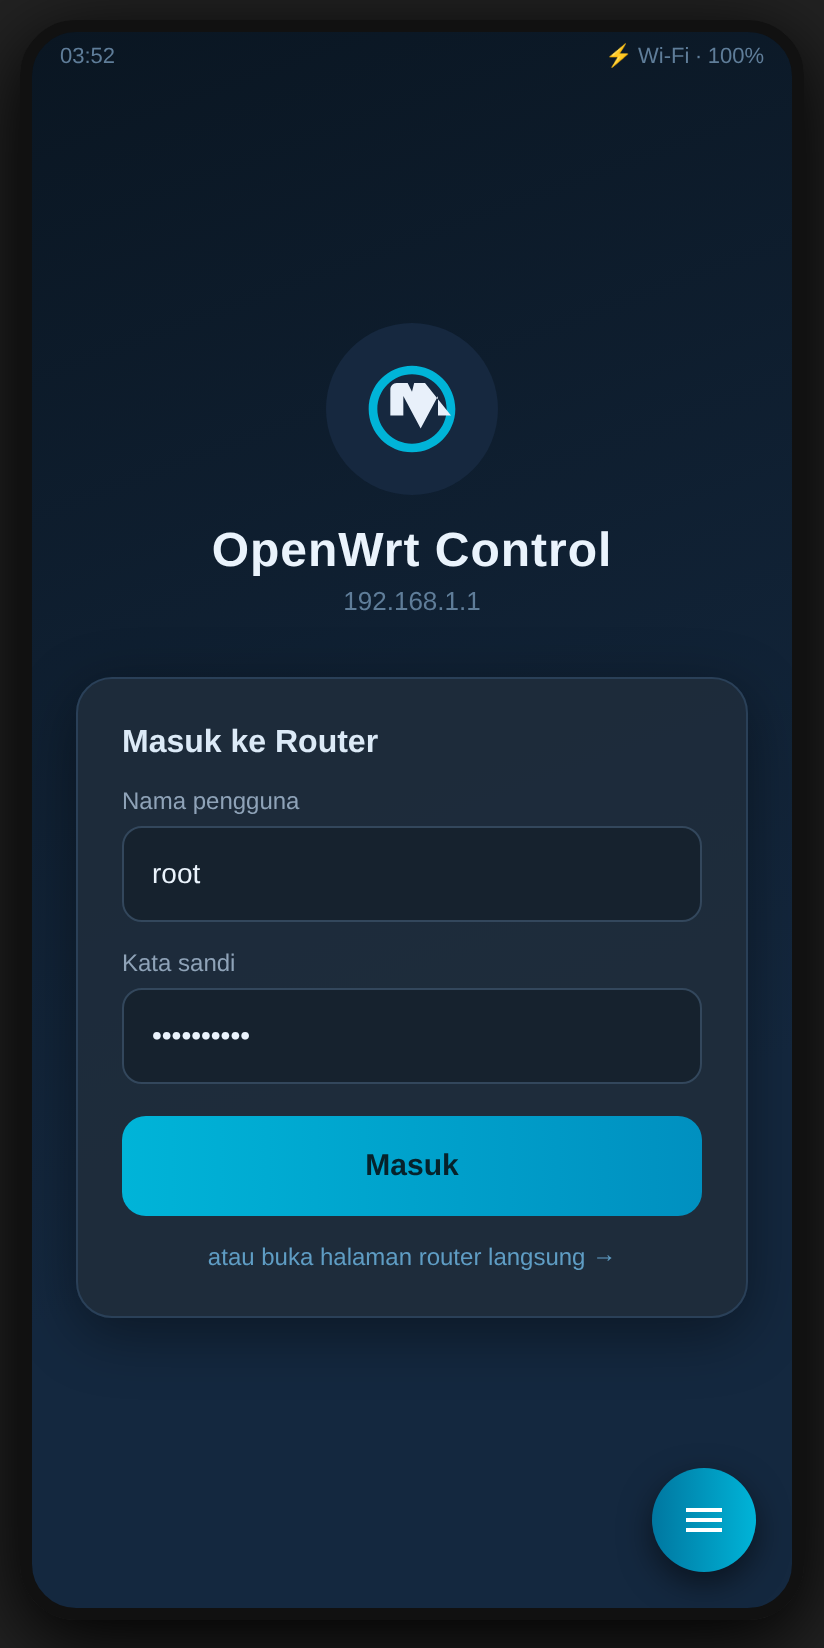
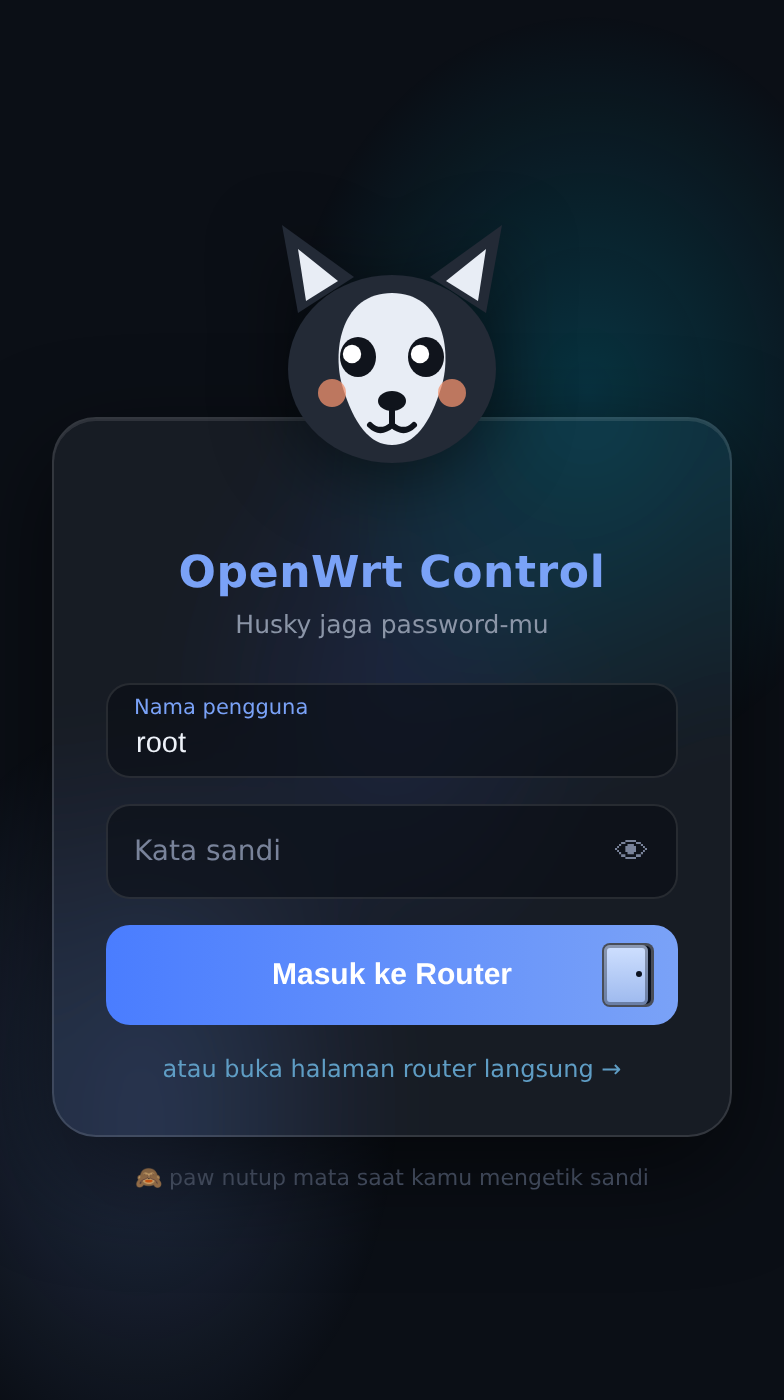
v1.2: layar login Husky Guard animatif (paw tutup mata, pintu di tombol), HTML asset + JS bridge

diff --git a/android/app/src/main/assets/www/login.html b/android/app/src/main/assets/www/login.html
@@ -1,0 +1,130 @@
+<!DOCTYPE html>
+<html><head><meta charset="utf-8"><meta name="viewport" content="width=device-width,initial-scale=1,user-scalable=no">
+<title>OpenWrt Control</title>
+<style>
+*{margin:0;padding:0;box-sizing:border-box;-webkit-tap-highlight-color:transparent}
+html,body{height:100%}
+body{font-family:system-ui,-apple-system,Roboto,sans-serif;background:#0b0f16;display:flex;align-items:center;justify-content:center;overflow:hidden}
+body::before{content:"";position:fixed;inset:0;background:
+ radial-gradient(65% 45% at 75% 28%,rgba(0,180,216,.22),transparent 60%),
+ radial-gradient(55% 45% at 18% 78%,rgba(122,162,247,.20),transparent 60%),
+ radial-gradient(40% 30% at 50% 50%,rgba(80,120,255,.10),transparent 70%);pointer-events:none}
+.wrap{width:340px;max-width:92vw;display:flex;flex-direction:column;align-items:center;position:relative}
+/* ---- Husky ---- */
+.husky{width:170px;height:150px;margin-bottom:-46px;position:relative;z-index:3;filter:drop-shadow(0 8px 18px rgba(0,0,0,.5))}
+#paws{transform:translateY(110px);transition:transform .32s cubic-bezier(.34,1.56,.64,1)}
+.husky.cover #paws{transform:translateY(0)}
+.husky.peek #paws{transform:translateY(-14px) }
+.husky.peek #pawL{transform:translateX(-9px) rotate(-8deg)}
+.husky.peek #pawR{transform:translateX(9px) rotate(8deg)}
+#pawL,#pawR{transition:transform .3s}
+#eyeHappy{opacity:0;transition:opacity .25s}
+.husky.happy #eyeOpen{opacity:0}
+.husky.happy #eyeHappy{opacity:1}
+.husky.happy #paws{transform:translateY(110px)}
+#pupL,#pupR{transition:transform .18s ease-out}
+/* ---- Kartu ---- */
+.card{width:100%;background:rgba(255,255,255,.055);border:1px solid rgba(255,255,255,.12);backdrop-filter:blur(18px) saturate(1.3);-webkit-backdrop-filter:blur(18px) saturate(1.3);border-radius:22px;padding:64px 26px 26px;box-shadow:0 18px 50px rgba(0,0,0,.55),inset 0 1px 0 rgba(255,255,255,.10)}
+h1{font-size:22px;font-weight:700;text-align:center;color:#7aa2f7;letter-spacing:.3px}
+.sub{text-align:center;color:#8b95a7;font-size:12.5px;margin:6px 0 22px}
+.field{position:relative;margin-bottom:13px}
+.field input{width:100%;background:rgba(10,14,20,.6);border:1px solid rgba(255,255,255,.1);color:#eef2f9;font-size:14.5px;padding:21px 44px 8px 14px;border-radius:12px;outline:none;transition:border-color .2s, box-shadow .2s}
+.field input:focus{border-color:#7aa2f7;box-shadow:0 0 0 3px rgba(122,162,247,.18)}
+.field label{position:absolute;left:14px;top:15px;color:#79839a;font-size:14px;pointer-events:none;transition:all .18s}
+.field input:focus+label,.field input:not(:placeholder-shown)+label{top:6px;font-size:10.5px;color:#7aa2f7}
+#eyeBtn{position:absolute;right:8px;top:9px;width:30px;height:30px;border:none;background:none;color:#79839a;font-size:17px;cursor:pointer}
+#eyeBtn.on{color:#7aa2f7}
+.err{display:none;background:rgba(242,160,172,.12);border:1px solid rgba(242,160,172,.35);color:#f2a0ac;font-size:12px;padding:9px 12px;border-radius:10px;margin-bottom:13px}
+.err.show{display:block}
+/* ---- Tombol + pintu ---- */
+.btn{position:relative;width:100%;border:none;border-radius:12px;padding:0;height:50px;background:linear-gradient(90deg,#4a7dff,#7aa2f7);color:#fff;font-size:15px;font-weight:700;overflow:hidden;cursor:pointer}
+.btn .door{position:absolute;right:12px;top:9px;width:26px;height:32px;perspective:120px}
+.door .frame{position:absolute;inset:0;border-radius:4px;background:#0b1220;border:1.5px solid rgba(255,255,255,.25)}
+.door .leaf{position:absolute;left:1px;top:1px;bottom:1px;width:22px;border-radius:3px;background:linear-gradient(180deg,#cfe0ff,#9db9ee);transform-origin:left center;transition:transform .45s ease;box-shadow:inset 0 0 0 1.5px rgba(11,18,32,.35)}
+.door .leaf::after{content:"";position:absolute;right:3px;top:13px;width:3px;height:3px;border-radius:50%;background:#0b1220}
+.door .man{position:absolute;bottom:2px;right:2px;width:9px;height:16px;opacity:0;transition:opacity .1s}
+.door .man i{position:absolute;left:2px;width:5px;height:5px;border-radius:50%;background:#fff;top:0}
+.door .man b{position:absolute;left:3.5px;top:5px;width:2px;height:11px;background:#fff}
+.btn.go .leaf{transform:rotateY(-72deg)}
+.btn.go .man{opacity:1;animation:walk .75s linear forwards}
+@keyframes walk{from{transform:translateX(0)}to{transform:translateX(30px);opacity:0}}
+.skip{display:block;text-align:center;margin-top:15px;color:#5f9dc4;font-size:12px;text-decoration:none}
+.foot{text-align:center;color:#525d73;font-size:11px;margin-top:14px}
+</style></head><body>
+<div class="wrap">
+ <svg class="husky" id="husky" viewBox="0 0 170 150">
+  <!-- telinga -->
+  <path d="M38 52 L30 8 L66 34 Z" fill="#232a36"/><path d="M42 46 L38 20 L58 36 Z" fill="#e8edf5"/>
+  <path d="M132 52 L140 8 L104 34 Z" fill="#232a36"/><path d="M128 46 L132 20 L112 36 Z" fill="#e8edf5"/>
+  <!-- kepala -->
+  <ellipse cx="85" cy="80" rx="52" ry="47" fill="#232a36"/>
+  <path d="M85 42 C60 42 55 70 60 88 C66 108 74 118 85 118 C96 118 104 108 110 88 C115 70 110 42 85 42 Z" fill="#e8edf5"/>
+  <!-- blush -->
+  <circle cx="55" cy="92" r="7" fill="#f2926d" opacity=".75"/><circle cx="115" cy="92" r="7" fill="#f2926d" opacity=".75"/>
+  <!-- mata terbuka -->
+  <g id="eyeOpen">
+   <ellipse cx="68" cy="74" rx="9" ry="10" fill="#10141c"/><circle id="pupL" cx="68" cy="75" r="4.6" fill="#fff"/>
+   <ellipse cx="102" cy="74" rx="9" ry="10" fill="#10141c"/><circle id="pupR" cx="102" cy="75" r="4.6" fill="#fff"/>
+  </g>
+  <!-- mata senang -->
+  <g id="eyeHappy" stroke="#10141c" stroke-width="5" fill="none" stroke-linecap="round">
+   <path d="M60 78 Q68 68 76 78"/><path d="M94 78 Q102 68 110 78"/>
+  </g>
+  <!-- hidung & mulut -->
+  <ellipse cx="85" cy="96" rx="7" ry="5" fill="#10141c"/>
+  <path d="M85 101 L85 108 M85 108 Q79 113 74 108 M85 108 Q91 113 96 108" stroke="#10141c" stroke-width="3" fill="none" stroke-linecap="round"/>
+  <!-- paw: saat cover (translateY 0) posisinya tepat menutupi kedua mata -->
+  <g id="paws">
+   <g id="pawL"><ellipse cx="66" cy="76" rx="21" ry="16" fill="#39424f"/><circle cx="57" cy="67" r="5" fill="#dfe6ef"/><circle cx="67" cy="63" r="5" fill="#dfe6ef"/><circle cx="77" cy="67" r="5" fill="#dfe6ef"/></g>
+   <g id="pawR"><ellipse cx="104" cy="76" rx="21" ry="16" fill="#39424f"/><circle cx="93" cy="67" r="5" fill="#dfe6ef"/><circle cx="103" cy="63" r="5" fill="#dfe6ef"/><circle cx="113" cy="67" r="5" fill="#dfe6ef"/></g>
+  </g>
+ </svg>
+ <div class="card">
+  <h1>OpenWrt Control</h1>
+  <p class="sub">Husky jaga password-mu</p>
+  <div class="err" id="err"></div>
+  <form id="f" autocomplete="off">
+   <div class="field"><input id="user" placeholder=" " type="text" autocapitalize="none"><label>Nama pengguna</label></div>
+   <div class="field"><input id="pass" placeholder=" " type="password"><label>Kata sandi</label><button type="button" id="eyeBtn">👁</button></div>
+   <button type="submit" class="btn" id="go">Masuk ke Router
+    <span class="door"><span class="frame"></span><span class="man"><i></i><b></b></span><span class="leaf"></span></span>
+   </button>
+  </form>
+  <a class="skip" href="#" id="skip">atau buka halaman router langsung →</a>
+ </div>
+ <p class="foot">🙈 paw nutup mata saat kamu mengetik sandi</p>
+</div>
+<script>
+var H=document.getElementById('husky'),pw=document.getElementById('pass'),us=document.getElementById('user'),
+    pupL=document.getElementById('pupL'),pupR=document.getElementById('pupR'),btn=document.getElementById('go'),
+    eyeBtn=document.getElementById('eyeBtn'),err=document.getElementById('err');
+var saved={u:'root',p:''};
+try{var s=AndroidBridge.getSaved();if(s)saved=JSON.parse(s);}catch(e){}
+us.value=saved.u||'root'; pw.value=saved.p||'';
+if(location.search.indexOf('err=1')>=0){err.className='err show';err.textContent='Router tidak terjangkau — pastikan HP tersambung ke Wi-Fi router.';}
+
+pw.addEventListener('focus',function(){H.classList.add('cover')});
+pw.addEventListener('input',function(){H.classList.add('cover')});
+us.addEventListener('focus',function(){H.classList.remove('cover','peek')});
+function off(){if(eyeBtn.classList.contains('on')){H.classList.remove('cover');H.classList.add('peek')}else if(document.activeElement!==pw){H.classList.remove('cover','peek')}}
+pw.addEventListener('blur',function(){setTimeout(off,120)});
+eyeBtn.addEventListener('click',function(){
+ var show=pw.type==='password';pw.type=show?'text':'password';eyeBtn.classList.toggle('on',show);
+ H.classList.toggle('peek',show); if(show)H.classList.remove('cover'); else if(document.activeElement===pw)H.classList.add('cover');
+});
+/* mata melirik mengikuti sentuhan */
+document.addEventListener('touchmove',function(t){look(t.touches[0].clientX,t.touches[0].clientY)},{passive:true});
+document.addEventListener('mousemove',function(t){look(t.clientX,t.clientY)});
+function look(x,y){var w=innerWidth,h=innerHeight;var dx=Math.max(-3,Math.min(3,(x/w-.5)*7)),dy=Math.max(-2.5,Math.min(2.5,(y/h-.5)*5));
+ pupL.setAttribute('transform','translate('+dx+','+dy+')');pupR.setAttribute('transform','translate('+dx+','+dy+')');}
+
+document.getElementById('f').addEventListener('submit',function(ev){
+ ev.preventDefault();
+ if(navigator.vibrate)navigator.vibrate(12);
+ H.classList.add('cover');btn.classList.add('go');
+ setTimeout(function(){H.classList.remove('cover');H.classList.add('happy');},350);
+ setTimeout(function(){try{AndroidBridge.login(us.value.trim(),pw.value)}catch(e){}},950);
+});
+document.getElementById('skip').addEventListener('click',function(ev){ev.preventDefault();try{AndroidBridge.skip()}catch(e){}});
+</script>
+</body></html>

diff --git a/android/app/src/main/java/com/openwrt/luci/MainActivity.java b/android/app/src/main/java/com/openwrt/luci/MainActivity.java
@@ -12,6 +12,7 @@ import android.view.Window;
 import android.view.WindowManager;
 import android.view.inputmethod.InputMethodManager;
 import android.webkit.CookieManager;
+import android.webkit.JavascriptInterface;
 import android.webkit.SslErrorHandler;
 import android.webkit.WebResourceError;
 import android.webkit.WebResourceRequest;
@@ -19,7 +20,6 @@ import android.webkit.WebSettings;
 import android.webkit.WebView;
 import android.webkit.WebViewClient;
 import android.widget.EditText;
-import android.widget.TextView;
 import android.widget.Toast;
 import org.json.JSONObject;
 
@@ -30,11 +30,10 @@ public class MainActivity extends Activity {
     private static final String KEY_USER = "router_user";
     private static final String KEY_PASS = "router_pass";
     private static final String DEFAULT_HOST = "http://192.168.1.1";
+    private static final String LOGIN_URL = "file:///android_asset/www/login.html";
 
     private WebView webView;
-    private View splash;
-    private EditText etUser, etPass;
-    private TextView splashHost;
+    private View fab;
     private SharedPreferences sp;
     private String routerHost;
     private boolean autoLoginPending = false;
@@ -44,7 +43,6 @@ public class MainActivity extends Activity {
     protected void onCreate(Bundle savedInstanceState) {
         super.onCreate(savedInstanceState);
 
-        // Fullscreen: tanpa status bar & title bar -> tidak terasa seperti browser
         requestWindowFeature(Window.FEATURE_NO_TITLE);
         getWindow().setFlags(WindowManager.LayoutParams.FLAG_FULLSCREEN,
                 WindowManager.LayoutParams.FLAG_FULLSCREEN);
@@ -52,16 +50,10 @@ public class MainActivity extends Activity {
         setContentView(R.layout.activity_main);
 
         webView = findViewById(R.id.webview);
-        splash = findViewById(R.id.splash);
-        etUser = findViewById(R.id.et_user);
-        etPass = findViewById(R.id.et_pass);
-        splashHost = findViewById(R.id.splash_host);
+        fab = findViewById(R.id.fab);
 
         sp = getSharedPreferences(PREFS, Context.MODE_PRIVATE);
         routerHost = sp.getString(KEY_HOST, DEFAULT_HOST);
-        etUser.setText(sp.getString(KEY_USER, "root"));
-        etPass.setText(sp.getString(KEY_PASS, ""));
-        splashHost.setText(routerHost.replaceFirst("^https?://", ""));
 
         WebSettings s = webView.getSettings();
         s.setJavaScriptEnabled(true);
@@ -73,27 +65,28 @@ public class MainActivity extends Activity {
         s.setBuiltInZoomControls(true);
         s.setDisplayZoomControls(false);
         s.setCacheMode(WebSettings.LOAD_DEFAULT);
-        webView.setBackgroundColor(0xFF0A1622); // tidak ada kedip putih ala browser
+        webView.setBackgroundColor(0xFF0B0F16);
 
         CookieManager.getInstance().setAcceptCookie(true);
+
+        webView.addJavascriptInterface(new Bridge(), "AndroidBridge");
 
         webView.setWebViewClient(new WebViewClient() {
             @Override
             public void onPageFinished(WebView view, String url) {
-                if (autoLoginPending) {
+                fab.setVisibility(url.startsWith("file:") ? View.GONE : View.VISIBLE);
+                if (autoLoginPending && !url.startsWith("file:")) {
                     autoLoginPending = false;
                     injectLogin();
                 }
-                splash.setVisibility(View.GONE);
             }
 
             @Override
             public void onReceivedError(WebView view, WebResourceRequest request, WebResourceError error) {
                 if (request.isForMainFrame()) {
-                    splash.setVisibility(View.VISIBLE);
+                    webView.loadUrl(LOGIN_URL + "?err=1");
                     Toast.makeText(MainActivity.this,
-                            "Router tidak terjangkau — cek HP tersambung ke Wi-Fi router",
-                            Toast.LENGTH_LONG).show();
+                            "Router tidak terjangkau — cek Wi-Fi", Toast.LENGTH_LONG).show();
                 }
             }
 
@@ -103,27 +96,44 @@ public class MainActivity extends Activity {
             }
         });
 
-        findViewById(R.id.fab).setOnClickListener(v -> showMenu());
+        fab.setOnClickListener(v -> showMenu());
 
-        findViewById(R.id.btn_login).setOnClickListener(v -> {
-            sp.edit()
-                    .putString(KEY_USER, etUser.getText().toString().trim())
-                    .putString(KEY_PASS, etPass.getText().toString())
-                    .apply();
-            autoLoginPending = true;
-            loadUrl(routerHost + "/");
-        });
-
-        findViewById(R.id.btn_skip).setOnClickListener(v -> {
-            autoLoginPending = false;
-            loadUrl(routerHost + "/");
-        });
-
-        // Startup: langsung ke halaman LuCI; splash menutup sendiri saat halaman tampil
-        loadUrl(routerHost + "/");
+        // Layar pertama = login Husky Guard, bukan halaman router
+        webView.loadUrl(LOGIN_URL);
     }
 
-    /** Isi & kirim form login LuCI dari kredensial yang tersimpan.
+    private class Bridge {
+        @JavascriptInterface
+        public String getSaved() {
+            try {
+                JSONObject j = new JSONObject();
+                j.put("u", sp.getString(KEY_USER, "root"));
+                j.put("p", sp.getString(KEY_PASS, ""));
+                return j.toString();
+            } catch (Exception e) {
+                return "{\"u\":\"root\",\"p\":\"\"}";
+            }
+        }
+
+        @JavascriptInterface
+        public void login(final String user, final String pass) {
+            runOnUiThread(() -> {
+                sp.edit().putString(KEY_USER, user).putString(KEY_PASS, pass).apply();
+                autoLoginPending = true;
+                webView.loadUrl(routerHost + "/cgi-bin/luci");
+            });
+        }
+
+        @JavascriptInterface
+        public void skip() {
+            runOnUiThread(() -> {
+                autoLoginPending = false;
+                webView.loadUrl(routerHost + "/");
+            });
+        }
+    }
+
+    /** Isi & kirim form login LuCI dari kredensial tersimpan.
      *  Mendukung LuCI lama (input name="luci_password") dan baru (user + password). */
     private void injectLogin() {
         final String user = sp.getString(KEY_USER, "root");
@@ -147,19 +157,15 @@ public class MainActivity extends Activity {
         }
     }
 
-    private void loadUrl(String url) {
-        webView.loadUrl(url);
-    }
-
     private void showMenu() {
-        String[] items = {"Muat Ulang", "Beranda", "Tampilkan Halaman Login", "Ganti Alamat Router", "Logout / Bersihkan Sesi"};
+        String[] items = {"Muat Ulang", "Beranda", "Halaman Login Husky", "Ganti Alamat Router", "Logout / Bersihkan Sesi"};
         new AlertDialog.Builder(this)
                 .setTitle(R.string.app_name)
                 .setItems(items, (dialog, which) -> {
                     switch (which) {
                         case 0: webView.reload(); break;
-                        case 1: loadUrl(routerHost + "/"); break;
-                        case 2: loadUrl(routerHost + "/cgi-bin/luci"); break;
+                        case 1: webView.loadUrl(routerHost + "/"); break;
+                        case 2: webView.loadUrl(LOGIN_URL); break;
                         case 3: showHostDialog(); break;
                         case 4: clearSession(); break;
                     }
@@ -185,8 +191,7 @@ public class MainActivity extends Activity {
                     }
                     routerHost = host.endsWith("/") ? host.substring(0, host.length() - 1) : host;
                     sp.edit().putString(KEY_HOST, routerHost).apply();
-                    splashHost.setText(routerHost.replaceFirst("^https?://", ""));
-                    loadUrl(routerHost + "/");
+                    webView.loadUrl(routerHost + "/");
                 })
                 .setNegativeButton("Batal", null)
                 .create();
@@ -203,7 +208,7 @@ public class MainActivity extends Activity {
         webView.clearCache(true);
         webView.clearHistory();
         Toast.makeText(this, "Sesi dibersihkan", Toast.LENGTH_SHORT).show();
-        loadUrl(routerHost + "/");
+        webView.loadUrl(LOGIN_URL);
     }
 
     @Override

diff --git a/README.md b/README.md
@@ -6,22 +6,25 @@ Tampilannya aplikasi murni (bukan tab browser): header gelap custom, indikator k
 
 ## ✨ Fitur
 
-- 🌌 **Layar pembuka login native** — kartu login gelap custom milik aplikasi, bukan halaman web polos; kredensial disimpan di HP dan form login LuCI diisi & dikirim otomatis
-- 📱 **Fullscreen tanpa bar** — tidak ada status bar/browser bar; satu-satunya kontrol adalah tombol mengambang cyan (☰) di pojok
-- 🧭 **Semua menu LuCI utuh** — WebView penuh dengan JavaScript, cookies, zoom, dan tombol back HP = kembali halaman
-- 🔐 **Sesi login tersimpan** — tidak perlu ketik password root tiap buka aplikasi
-- 🔄 **Menu cepat (FAB)** — Muat Ulang, Beranda, Halaman Login, Ganti Alamat Router, Logout
+- 🐺 **Login "Husky Guard"** — layar pembuka custom penuh animasi: husky kartun menutup mata dengan paw saat kamu mengetik sandi, mata melirik mengikuti sentuhan, paw mengintip saat ikon 👁 ditekan, dan senang saat login berhasil; kredensial disimpan lalu form login LuCI diisi & dikirim otomatis
+- 🚪 **Tombol Masuk dengan pintu** — animasi pintu terbuka + stickman berjalan masuk saat submit (ala video referensi)
+- 📱 **Fullscreen tanpa bar** — tidak ada status bar, tidak ada header/loading bar ala browser; kontrol hanya FAB ☰ cyan di pojok
+- 🧊 Kaca *glassmorphism* + glow teal-biru, latar gelap, tanpa kedip putih
+- 🧭 **Semua menu LuCI utuh** — WebView penuh: JavaScript, cookies, zoom, back HP = kembali halaman
+- 🔄 **Menu cepat (FAB)** — Muat Ulang / Beranda / Halaman Login / Ganti Alamat Router / Logout
 - 🌐 **Ganti alamat router dari dalam aplikasi** — tidak terpaku di `192.168.1.1`
-- 🧹 **Logout / bersihkan sesi** kapan saja
-- Tema gelap navy-cyan + aksen gradasi
 
 ## 📸 Pratinjau Tampilan
 
-> Catatan: gambar di bawah adalah **mockup desain 1:1** (render layout & warna persis seperti aplikasi jadi), bukan tangkapan layar dari emulator.
+| Idle — mata terbuka | 🙈 Mengetik sandi — paw menutup mata | ✅ Login berhasil — husky senang |
+|---|---|---|
+| ![idle](docs/screenshots/02-login-native.png) | ![cover](docs/screenshots/03-husky-jaga-sandi.png) | ![happy](docs/screenshots/04-login-berhasil.png) |
 
-| Login Native (splash) | Dashboard — tanpa bar, FAB menu |
-|---|---|
-| ![Login](docs/screenshots/02-login-native.png) | ![Dashboard](docs/screenshots/01-dashboard-status.png) |
+Setelah login, halaman LuCI tampil **fullscreen tanpa bar apa pun** — hanya tombol ☰ mengambang:
+
+![dashboard](docs/screenshots/01-dashboard-status.png)
+
+> Gambar adalah render 1:1 dari HTML/aset yang benar-benar dipakai aplikasi (bukan emulator).
 
 ## 📥 Cara Install
 
